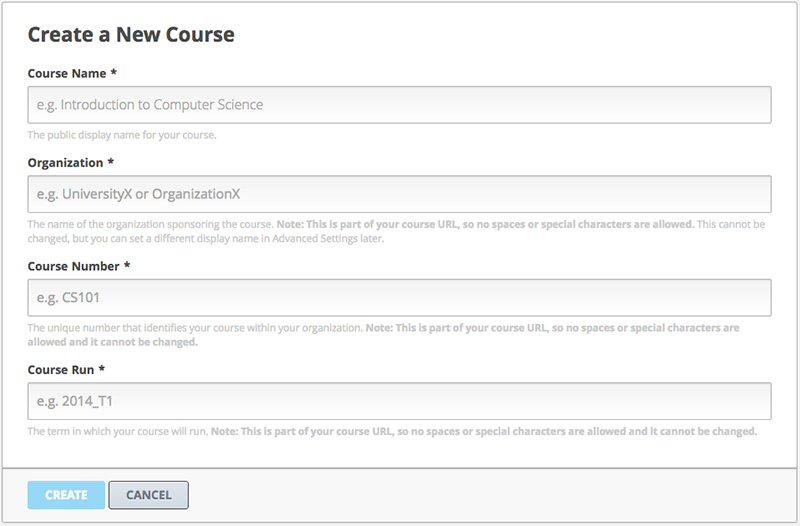
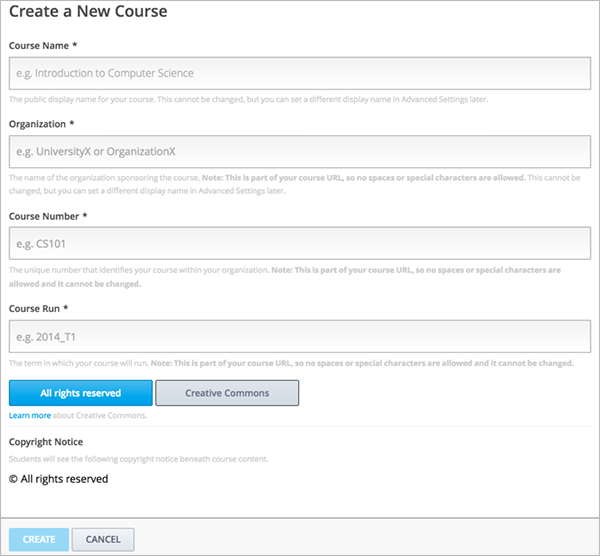
Creative Commons - Building Course Guide

Changed region(s): [[0.0, 0.0, 1.0, 1.0]]

diff --git a/en_us/course_authors/source/building_course/setting_up_student_view.rst b/en_us/course_authors/source/building_course/setting_up_student_view.rst
@@ -26,8 +26,8 @@ See:
 * :ref:`Add a Course Image`
 * :ref:`Add a Course Video`
 * :ref:`Set Course Requirements`
+* :ref:`Set Content Licensing`
 * :ref:`A Template For Course Overview`
-
 
 .. _Edge: http://edge.edx.org
 .. _edX.org: http://edx.org
@@ -331,13 +331,46 @@ To add a course introduction video:
 ************************
 Set Course Requirements
 ************************
+
 The estimated Effort per Week appears at the bottom of the course summary page.
 
 #. From the **Settings** menu, select **Schedule & Details**.
 #. Scroll down to the **Requirements** section.
 #. In the **Hours of Effort per Week** field, enter the number of hours you
    expect students to work on this course each week.
-#. View your course summary page to test how the requirements will appear to students.
+#. View your course summary page to test how the requirements will appear to
+   students.
+
+
+.. _Set Content Licensing:
+
+************************************************
+Set Content Licensing
+************************************************
+
+When you :ref:`create a course <Create a New Course>`, you set the default
+licensing information. You can change the default setting in the **Schedule &
+Details** page.
+
+.. image:: ../Images/course_license.png
+ :alt: Set course licensing in the Schedule & Details page.
+
+* Select **All Rights Reserved** to indicate to students that you own the
+  copyright for course content.
+
+* Select **Creative Commons** to grant others to right to share and use course
+  content. You must then select the Creative Commons license options to apply:
+
+  SCREEN SHOT WHEN UI FIXED
+
+  See :ref:`Creative Commons Licensing` for more information about license
+  options.
+
+  The license options you select control the copyright notice students see in
+  the courseware.
+
+  You can also change the license for each video in the course. See :ref:`Video
+  Advanced Options` for more information.
 
 .. _A Template For Course Overview:
 
@@ -345,7 +378,6 @@ The estimated Effort per Week appears at the bottom of the course summary page.
  A Template For Your Course Overview
 ************************************************
 
-  
 Replace the placeholders in the following template with your information.
 
 .. code-block:: html

diff --git a/en_us/course_authors/source/building_course/creating_new_course.rst b/en_us/course_authors/source/building_course/creating_new_course.rst
@@ -41,7 +41,7 @@ Create a New Course
    (http://help.edge.edx.org). Additionally, because this information becomes
    part of your course URL, the total number of characters in the following
    four fields must be 65 or fewer.
-
+   
   .. image:: ../Images/new_course_info.png
      :alt: Image of the course creation page
 
@@ -49,11 +49,8 @@ Create a New Course
     may be "Sets, Maps, and Symmetry Groups". Use title capitalization for the
     course title.
 
-  * For **Organization**, enter the identifier for your university. For
-    example, enter HarvardX or MITx. Do not include spaces or special
-    characters.
-
-.. is it ok to include the Harvard and MIT examples?
+  * For **Organization**, enter the identifier for your university or
+    organization. Do not include spaces or special characters.
 
   * For **Course Number**, enter both a subject abbreviation and a number. For
     example, for public health course number 207, enter **PH207**. For math
@@ -71,7 +68,30 @@ Create a New Course
     that you define for the course. See :ref:`Set Important Dates for Your
     Course` for more information.
 
-4. Click **Save.**
+4. Set the default licensing information for the course:
+
+  * Select **All Rights Reserved** to indicate to students that you own the
+    copyright for course content.
+
+  * Select **Creative Commons** to grant others to right to share and use
+    course content. You must then select the Creative Commons license options
+    to apply:
+
+    SCREEN SHOT WHEN UI FIXED
+
+    See :ref:`Creative Commons Licensing` for more information about license
+    options.
+
+  The license options you select control the copyright notice students see in
+  the courseware.
+
+  You can :ref:`change the default content license <Set Content Licensing>` in
+  the **Settings & Details** page.
+
+  You can also set the license for each video in the course. See :ref:`Video
+  Advanced Options` for more information.
+
+5. Click **Save.**
 
 You then see the empty Course Outline.
 

diff --git a/en_us/course_authors/source/building_course/licensing_course.rst b/en_us/course_authors/source/building_course/licensing_course.rst
@@ -1,0 +1,13 @@
+.. _Licensing a Course:
+
+######################################################
+Licensing a Course
+######################################################
+
+
+
+.. _Creative Commons Licensing:
+
+***************************
+Creative Commons Licensing
+***************************

diff --git a/en_us/course_authors/source/building_course/index.rst b/en_us/course_authors/source/building_course/index.rst
@@ -14,6 +14,7 @@ page, see :ref:`Developing Your Course Index`.
 
    creating_new_course
    setting_up_student_view
+   licensing_course
    course_files
    handouts_updates
    pages
